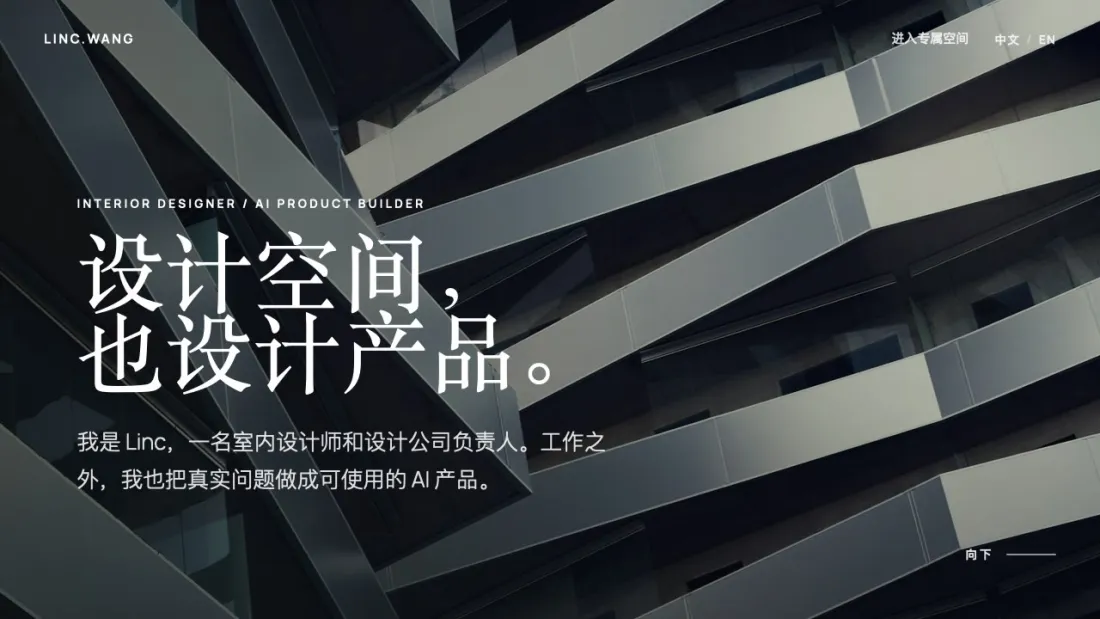
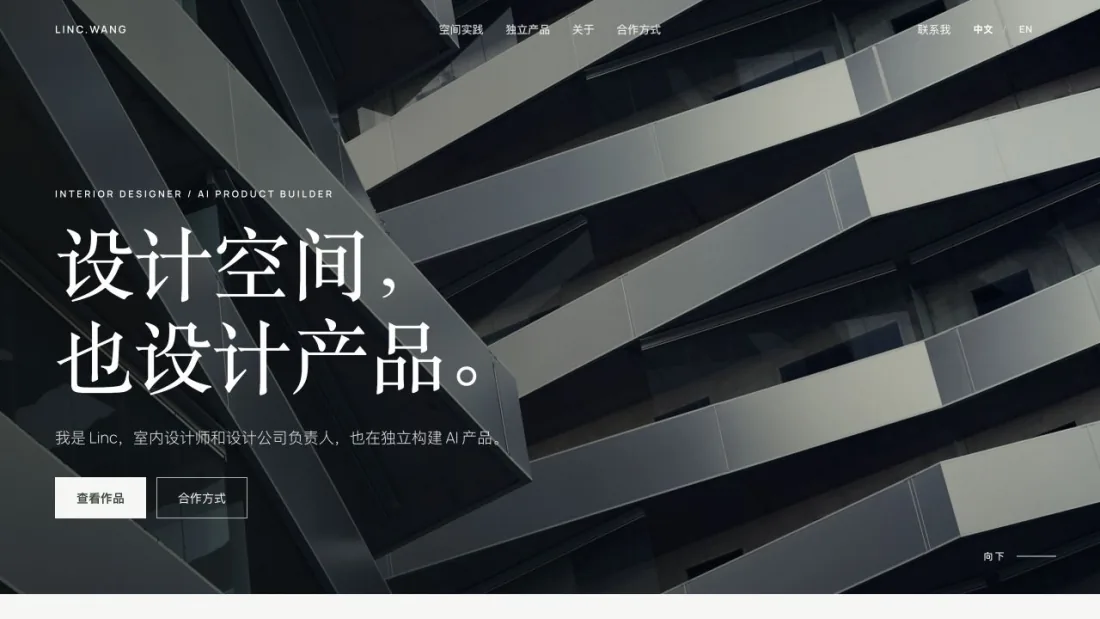
docs: refresh LINC.WANG portfolio reference and preview (#5)

diff --git a/site/index.html b/site/index.html
@@ -219,13 +219,13 @@
           <img src="assets/linc.wang-home.webp" alt="设计实践与 AI 产品作品集预览：linc.wang" loading="lazy" width="1100" height="619">
           <div class="card-body">
             <h3>设计实践与 AI 产品作品集</h3>
-            <p class="card-desc">以室内设计为职业根基，把 AI 产品、可合作服务与个人方法放进同一个清晰叙事。</p>
+            <p class="card-desc">以室内设计为职业根基，展示造境与 AI 订阅雷达，并直达室内设计、内容与社媒合作。</p>
             <p class="card-fit"><span class="fit-label">适合</span>有明确专业主业、同时在构建数字产品或服务的独立设计师、工作室负责人和跨界创作者。</p>
             <ul class="card-points">
-              <li>首屏先说明专业根基与双重身份，避免把个人站做成泛泛的 AI 标签墙</li>
-              <li>建筑摄影、衬线大标题和宽松留白，保留作品集的克制感与品牌气质</li>
-              <li>真实产品界面、事实标签和 Demo 入口，让作品直接承担可信度</li>
-              <li>中文 / English 切换与减少动效回退，兼顾双语浏览和阅读舒适度</li>
+              <li>空间参考图配合建筑摄影与留白，清楚呈现设计背景与审美</li>
+              <li>造境前后对照与 AI 订阅雷达界面，直观说明产品用途与个人工作</li>
+              <li>服务直达合作详情，四步流程完整展示，方便了解如何开始合作</li>
+              <li>中英双语切换，手机浏览与联系便捷，页面内容清晰可读</li>
             </ul>
             <div class="card-links">
               <a class="site-link" href="https://linc.wang" target="_blank" rel="noopener">linc.wang</a>

diff --git a/templates/linc.wang.md b/templates/linc.wang.md
@@ -1,6 +1,8 @@
 # LINC.WANG — 参考模板 #008
 
 > 网址：https://linc.wang
+>
+> 更新：2026-09-11
 
 ## 基本信息
 
@@ -13,19 +15,31 @@
 
 ## 首页结构
 
-1. **Hero**：建筑摄影、双重身份标签与主张「设计空间，也设计产品。」
-2. **01 / Practice**：以室内设计实践说明处理人、空间、预算、材料与交付的工作方法
-3. **02 / Selected Work**：两个真实产品入口——造境 zaelume（AI 商品视觉 SaaS）与 Listen & Pick 儿童英语听力系统
-4. **03 / Services**：AI 内容创作、社交媒体运营两项可合作服务
-5. **04 / About Linc**：用第一人称串联空间设计、研究、内容、设计、开发与持续迭代
-6. **Contact / Private Space**：单一合作召唤，补充熟人客户可查看的详细服务页与公开联系入口
+1. **Hero**：建筑摄影、双重身份标签与主张「设计空间，也设计产品。」；提供「查看作品」和「合作方式」入口
+2. **01 / Practice**：说明室内设计中对使用需求、预算、材料与交付的协调；配图标注「空间与材质参考」，不作为实际项目案例
+3. **02 / Selected Work**：造境 zaelume 与 AI 订阅雷达两项独立产品；展示产品方向、个人职责、三步使用流程与产品链接
+4. **03 / Services**：室内设计、内容与社媒两项合作方向，分别直达合作页对应章节
+5. **ABOUT LINC**：从空间设计经验出发，说明商品视觉与订阅信息整理两种产品实践
+6. **Contact**：联系入口与合作页链接；合作入口直接进入 `/private/`
+
+## 产品展示
+
+- **[造境 zaelume](https://zaelume.com/)**：AI 商品视觉 SaaS，以「商品原图 / 商业场景」并排展示生成示例；流程为上传商品、选择场景、生成画面；个人职责为产品构思、视觉与交互设计、持续迭代。
+- **[AI 订阅雷达](https://airadar.vip/)**：展示 AI 订阅报价与规格对照界面；流程为选择订阅、对照规格、查看报价；个人职责为信息结构、产品设计与功能迭代。新版替换了原有 Listen & Pick 儿童英语产品展示。
+
+## 合作页结构
+
+- **服务范围**：室内设计合作，以及 AI 内容与社交媒体合作，各自说明工作内容并提供咨询入口。
+- **四步流程**：初步沟通 → 明确项目范围 → 提案与报价 → 执行与交付；四步说明常显，无需悬停或点击查看。
+- **联系**：通过联系弹窗承接咨询，结合项目类型、预算范围与时间安排开始沟通。
 
 ## 可作为模板吸收的设计要点
 
-- **主业与产品并置**：不把 AI 身份包装成泛泛的标签，而是先交代专业根基，再用真实产品证明持续构建能力。
+- **主业与产品并置**：先交代专业根基，再用产品示例、职责与使用流程说明构建经验。
 - **编辑杂志式视觉骨架**：建筑与室内摄影、米白 / 墨绿、衬线大标题和大量留白，让服务型个人品牌保留作品集的克制感。
-- **产品作为可信证据**：每张产品卡都给出实际界面、用途标签、可核对的事实和 Demo 入口，避免用虚构案例填充页面。
-- **双语与低干扰动效**：中文 / English 切换覆盖主内容；滚动显现、图片轻微位移和 `prefers-reduced-motion` 回退让动效不阻断阅读。
+- **区分参考与作品**：空间参考图明确标注；造境用前后对照、AI 订阅雷达用产品界面呈现用途，不依赖未经验证的业绩数字。
+- **合作路径直接**：首页服务链接直达 `/private/` 对应章节，四步流程完整可读。
+- **双语与移动端可用性**：中文 / English 切换、移动端菜单与联系入口；内容取消模糊渐显，保留减少动效支持；联系弹窗管理键盘焦点并在关闭时恢复，锚点跳转同步焦点。
 
 ## 适用人群
 

diff --git a/README.md b/README.md
@@ -118,7 +118,7 @@ The gallery is a **customer-acquisition / SEO asset**, not the product: it's the
 - **GitHub**：—
 - **X**：[@superwang](https://x.com/superwang)
 - **Reference**：[templates/linc.wang.md](templates/linc.wang.md)
-- **Highlights**：Architecture photography and editorial whitespace; establishes interior-design practice before showing usable AI products; product cards carry facts and demo links; bilingual with reduced-motion support. For independent designers and studio leads with both a professional practice and digital products.
+- **Highlights**：Editorial whitespace and clearly labeled spatial references; zaelume before/after visuals and AIRadar show product purpose, roles and usage. Interior-design and content/social services lead to a clear four-step cooperation page, with bilingual browsing and easy mobile contact. For independent designers and studio leads building digital products.
 
 ---
 

diff --git a/README.zh.md b/README.zh.md
@@ -118,7 +118,7 @@ AI 时代，让每个人都能拥有一张属于自己的**数字名片** ——
 - **GitHub**：—
 - **X**：[@superwang](https://x.com/superwang)
 - **分析文档**：[templates/linc.wang.md](templates/linc.wang.md)
-- **特点**：建筑摄影与编辑杂志式留白；先交代室内设计主业，再陈列可体验的 AI 产品；真实产品卡附事实与 Demo 入口；中英双语、支持减少动效。适合同时拥有专业实践与数字产品的独立设计师 / 工作室负责人。
+- **特点**：建筑摄影与编辑式留白，空间图标注参考；造境前后对照与 AI 订阅雷达讲清用途、职责和步骤；室内设计、内容与社媒直达四步合作流程，中英双语、手机浏览与联系便捷。适合兼具专业实践与数字产品的独立设计师 / 工作室负责人。
 
 ---
 
